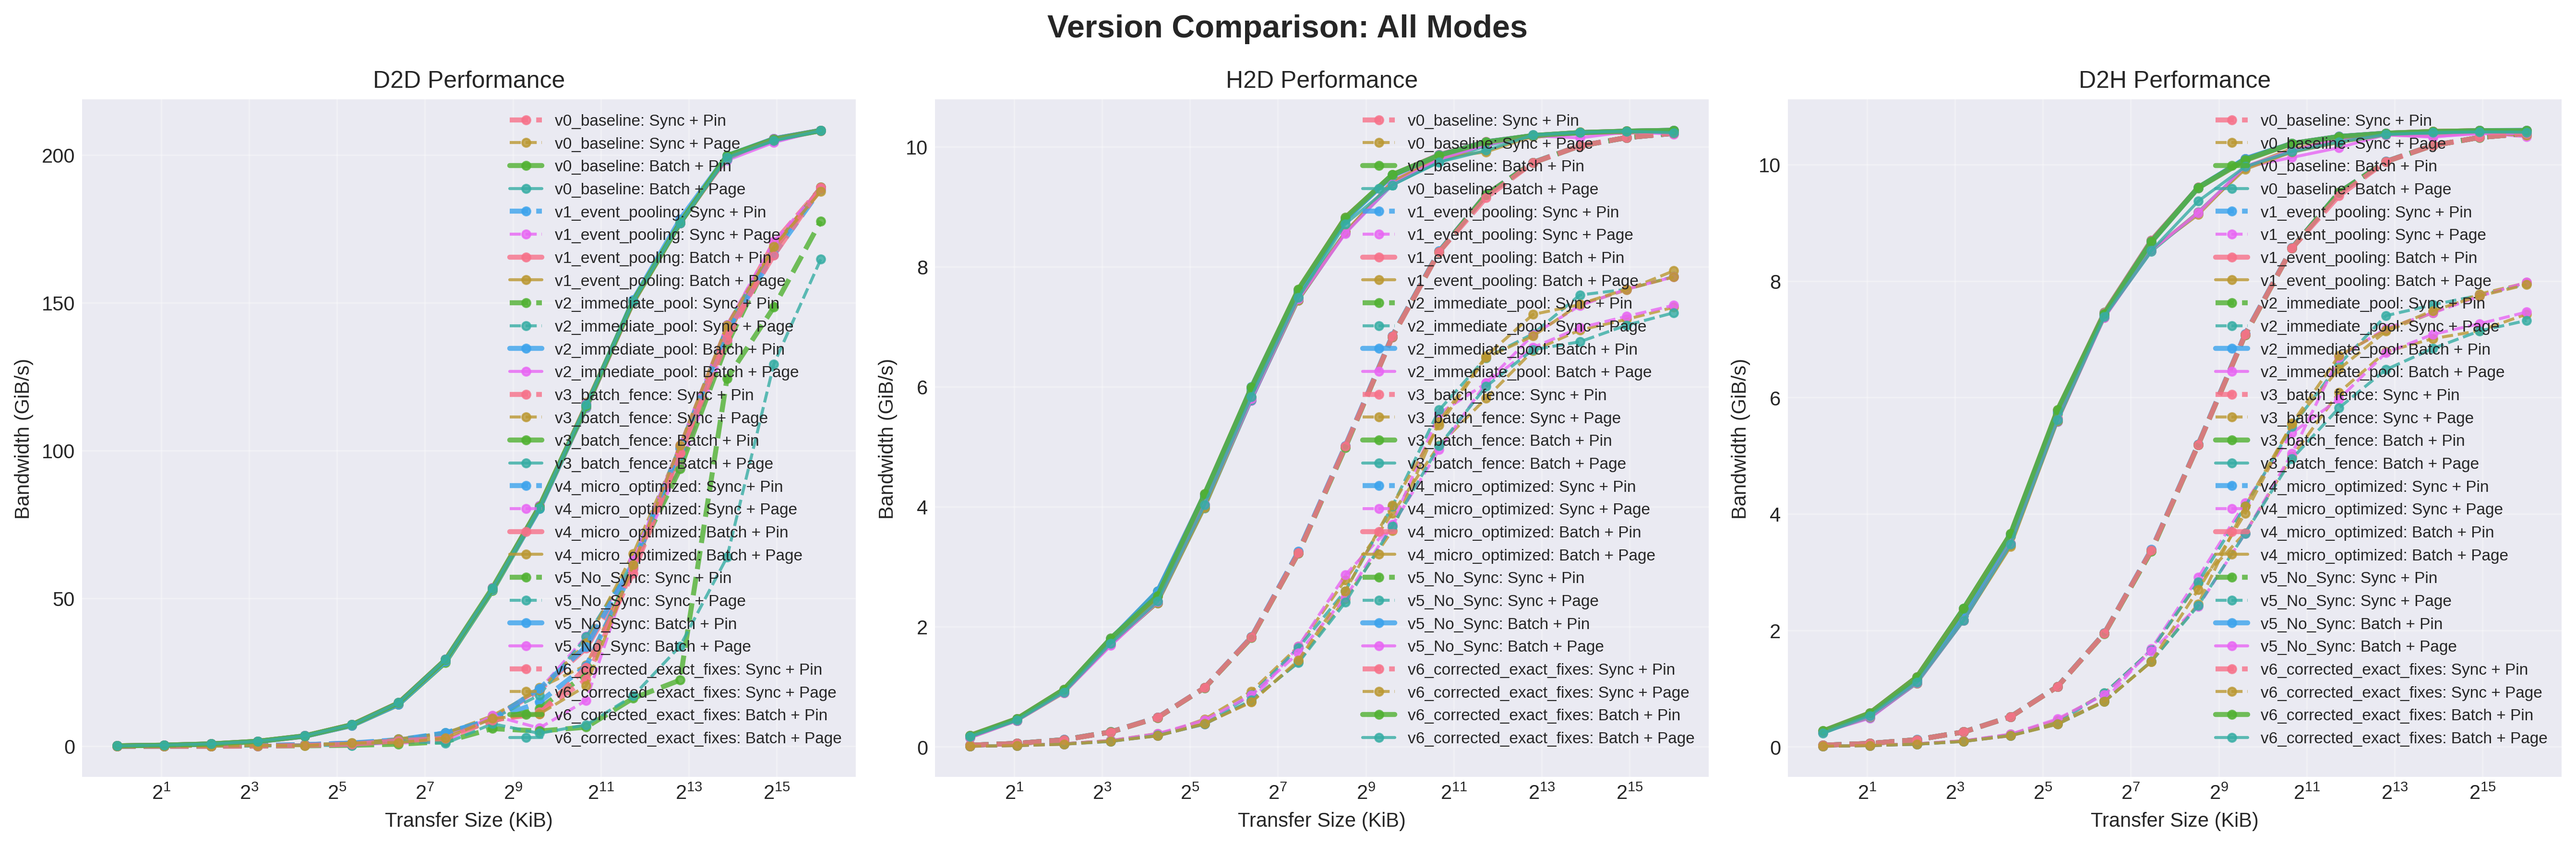
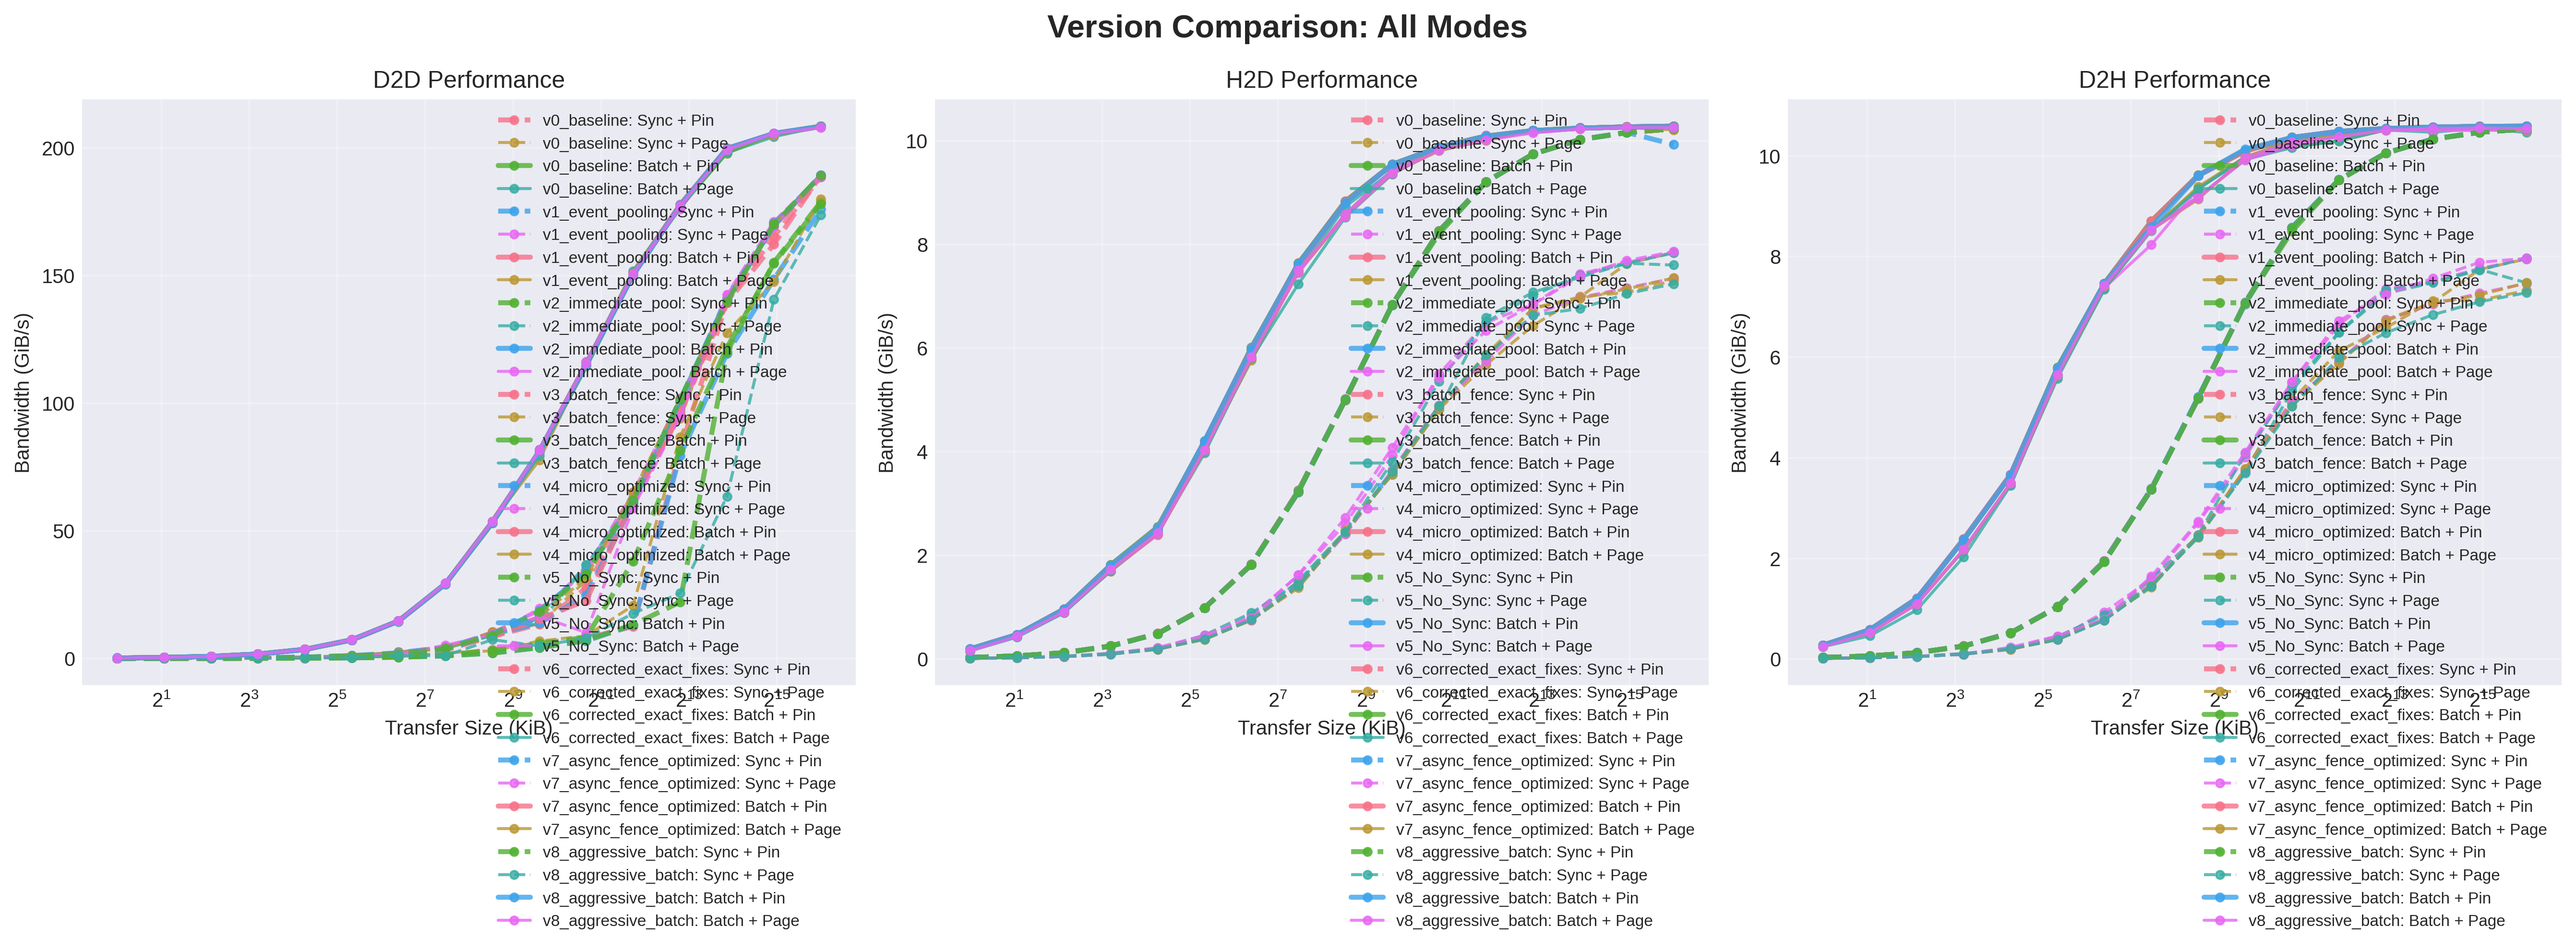
new graphs for current impl

diff --git a/bench/comparison_all/version_comparison.md b/bench/comparison_all/version_comparison.md
@@ -2,87 +2,111 @@
 
 | Version | Operation | Mode | Pinned | Peak (GiB/s) | Median (GiB/s) |
 | --- | --- | --- | --- | --- | --- |
-| v0_baseline | D2D | Sync | Yes | 188.88 | 6.38 |
-| v0_baseline | D2D | Sync | No | 188.89 | 6.69 |
-| v0_baseline | D2D | Batch | Yes | 208.36 | 41.48 |
-| v0_baseline | D2D | Batch | No | 208.31 | 41.48 |
+| v0_baseline | D2D | Sync | Yes | 188.64 | 2.30 |
+| v0_baseline | D2D | Sync | No | 188.51 | 7.18 |
+| v0_baseline | D2D | Batch | Yes | 208.33 | 41.48 |
+| v0_baseline | D2D | Batch | No | 208.33 | 41.50 |
 | v0_baseline | H2D | Sync | Yes | 10.22 | 4.13 |
-| v0_baseline | H2D | Sync | No | 7.33 | 2.23 |
-| v0_baseline | H2D | Batch | Yes | 10.27 | 8.22 |
-| v0_baseline | H2D | Batch | No | 10.25 | 8.04 |
+| v0_baseline | H2D | Sync | No | 7.84 | 1.91 |
+| v0_baseline | H2D | Batch | Yes | 10.28 | 8.23 |
+| v0_baseline | H2D | Batch | No | 10.26 | 8.02 |
 | v0_baseline | D2H | Sync | Yes | 10.53 | 4.29 |
-| v0_baseline | D2H | Sync | No | 7.43 | 2.24 |
+| v0_baseline | D2H | Sync | No | 7.95 | 1.94 |
 | v0_baseline | D2H | Batch | Yes | 10.58 | 9.15 |
-| v0_baseline | D2H | Batch | No | 10.55 | 8.85 |
-| v1_event_pooling | D2D | Sync | Yes | 188.87 | 6.72 |
-| v1_event_pooling | D2D | Sync | No | 188.66 | 6.77 |
-| v1_event_pooling | D2D | Batch | Yes | 208.41 | 40.87 |
-| v1_event_pooling | D2D | Batch | No | 208.25 | 41.50 |
-| v1_event_pooling | H2D | Sync | Yes | 10.22 | 4.12 |
-| v1_event_pooling | H2D | Sync | No | 7.36 | 2.27 |
-| v1_event_pooling | H2D | Batch | Yes | 10.27 | 8.20 |
-| v1_event_pooling | H2D | Batch | No | 10.27 | 8.02 |
-| v1_event_pooling | D2H | Sync | Yes | 10.53 | 4.29 |
-| v1_event_pooling | D2H | Sync | No | 7.47 | 2.30 |
-| v1_event_pooling | D2H | Batch | Yes | 10.58 | 9.14 |
-| v1_event_pooling | D2H | Batch | No | 10.56 | 8.84 |
-| v2_immediate_pool | D2D | Sync | Yes | 188.94 | 6.15 |
-| v2_immediate_pool | D2D | Sync | No | 189.21 | 6.96 |
-| v2_immediate_pool | D2D | Batch | Yes | 208.32 | 41.19 |
-| v2_immediate_pool | D2D | Batch | No | 208.34 | 41.43 |
-| v2_immediate_pool | H2D | Sync | Yes | 10.22 | 4.12 |
-| v2_immediate_pool | H2D | Sync | No | 7.84 | 2.12 |
+| v0_baseline | D2H | Batch | No | 10.55 | 8.86 |
+| v1_event_pooling | D2D | Sync | Yes | 175.85 | 1.53 |
+| v1_event_pooling | D2D | Sync | No | 189.18 | 6.91 |
+| v1_event_pooling | D2D | Batch | Yes | 208.29 | 41.40 |
+| v1_event_pooling | D2D | Batch | No | 208.32 | 41.53 |
+| v1_event_pooling | H2D | Sync | Yes | 10.22 | 4.13 |
+| v1_event_pooling | H2D | Sync | No | 7.84 | 2.11 |
+| v1_event_pooling | H2D | Batch | Yes | 10.28 | 8.23 |
+| v1_event_pooling | H2D | Batch | No | 10.25 | 8.01 |
+| v1_event_pooling | D2H | Sync | Yes | 10.53 | 4.30 |
+| v1_event_pooling | D2H | Sync | No | 7.95 | 2.15 |
+| v1_event_pooling | D2H | Batch | Yes | 10.58 | 9.16 |
+| v1_event_pooling | D2H | Batch | No | 10.55 | 8.96 |
+| v2_immediate_pool | D2D | Sync | Yes | 178.77 | 1.55 |
+| v2_immediate_pool | D2D | Sync | No | 188.83 | 6.45 |
+| v2_immediate_pool | D2D | Batch | Yes | 208.31 | 41.23 |
+| v2_immediate_pool | D2D | Batch | No | 208.31 | 41.41 |
+| v2_immediate_pool | H2D | Sync | Yes | 10.22 | 4.11 |
+| v2_immediate_pool | H2D | Sync | No | 7.83 | 1.98 |
 | v2_immediate_pool | H2D | Batch | Yes | 10.27 | 8.20 |
-| v2_immediate_pool | H2D | Batch | No | 10.25 | 8.00 |
+| v2_immediate_pool | H2D | Batch | No | 10.25 | 8.01 |
 | v2_immediate_pool | D2H | Sync | Yes | 10.53 | 4.27 |
-| v2_immediate_pool | D2H | Sync | No | 7.95 | 2.25 |
+| v2_immediate_pool | D2H | Sync | No | 7.97 | 2.02 |
 | v2_immediate_pool | D2H | Batch | Yes | 10.59 | 9.15 |
-| v2_immediate_pool | D2H | Batch | No | 10.55 | 8.85 |
-| v3_batch_fence | D2D | Sync | Yes | 188.77 | 6.23 |
-| v3_batch_fence | D2D | Sync | No | 189.20 | 7.37 |
-| v3_batch_fence | D2D | Batch | Yes | 208.36 | 40.46 |
-| v3_batch_fence | D2D | Batch | No | 208.38 | 41.46 |
-| v3_batch_fence | H2D | Sync | Yes | 10.22 | 4.12 |
-| v3_batch_fence | H2D | Sync | No | 7.93 | 1.94 |
-| v3_batch_fence | H2D | Batch | Yes | 10.27 | 8.18 |
-| v3_batch_fence | H2D | Batch | No | 10.25 | 8.00 |
-| v3_batch_fence | D2H | Sync | Yes | 10.53 | 4.28 |
-| v3_batch_fence | D2H | Sync | No | 7.97 | 1.96 |
-| v3_batch_fence | D2H | Batch | Yes | 10.58 | 9.13 |
-| v3_batch_fence | D2H | Batch | No | 10.55 | 8.84 |
-| v4_micro_optimized | D2D | Sync | Yes | 188.46 | 6.83 |
-| v4_micro_optimized | D2D | Sync | No | 188.76 | 3.87 |
-| v4_micro_optimized | D2D | Batch | Yes | 208.30 | 41.22 |
-| v4_micro_optimized | D2D | Batch | No | 208.30 | 41.51 |
-| v4_micro_optimized | H2D | Sync | Yes | 10.22 | 4.14 |
-| v4_micro_optimized | H2D | Sync | No | 7.83 | 2.03 |
+| v2_immediate_pool | D2H | Batch | No | 10.54 | 8.79 |
+| v3_batch_fence | D2D | Sync | Yes | 188.89 | 5.98 |
+| v3_batch_fence | D2D | Sync | No | 179.91 | 2.60 |
+| v3_batch_fence | D2D | Batch | Yes | 208.31 | 41.27 |
+| v3_batch_fence | D2D | Batch | No | 208.36 | 41.55 |
+| v3_batch_fence | H2D | Sync | Yes | 10.22 | 4.11 |
+| v3_batch_fence | H2D | Sync | No | 7.30 | 1.91 |
+| v3_batch_fence | H2D | Batch | Yes | 10.28 | 8.22 |
+| v3_batch_fence | H2D | Batch | No | 10.24 | 8.10 |
+| v3_batch_fence | D2H | Sync | Yes | 10.53 | 4.27 |
+| v3_batch_fence | D2H | Sync | No | 7.32 | 1.95 |
+| v3_batch_fence | D2H | Batch | Yes | 10.59 | 9.15 |
+| v3_batch_fence | D2H | Batch | No | 10.55 | 8.94 |
+| v4_micro_optimized | D2D | Sync | Yes | 189.02 | 6.31 |
+| v4_micro_optimized | D2D | Sync | No | 188.92 | 7.34 |
+| v4_micro_optimized | D2D | Batch | Yes | 208.34 | 41.20 |
+| v4_micro_optimized | D2D | Batch | No | 208.40 | 41.53 |
+| v4_micro_optimized | H2D | Sync | Yes | 10.22 | 4.11 |
+| v4_micro_optimized | H2D | Sync | No | 7.34 | 1.93 |
 | v4_micro_optimized | H2D | Batch | Yes | 10.27 | 8.22 |
-| v4_micro_optimized | H2D | Batch | No | 10.26 | 8.01 |
-| v4_micro_optimized | D2H | Sync | Yes | 10.53 | 4.29 |
-| v4_micro_optimized | D2H | Sync | No | 7.98 | 2.03 |
-| v4_micro_optimized | D2H | Batch | Yes | 10.58 | 9.15 |
-| v4_micro_optimized | D2H | Batch | No | 10.55 | 8.85 |
-| v5_No_Sync | D2D | Sync | Yes | 177.70 | 3.36 |
-| v5_No_Sync | D2D | Sync | No | 164.76 | 3.09 |
-| v5_No_Sync | D2D | Batch | Yes | 208.36 | 40.82 |
-| v5_No_Sync | D2D | Batch | No | 208.40 | 41.52 |
-| v5_No_Sync | H2D | Sync | Yes | 10.23 | 4.11 |
-| v5_No_Sync | H2D | Sync | No | 7.23 | 1.91 |
-| v5_No_Sync | H2D | Batch | Yes | 10.27 | 8.19 |
-| v5_No_Sync | H2D | Batch | No | 10.25 | 8.01 |
+| v4_micro_optimized | H2D | Batch | No | 10.25 | 8.00 |
+| v4_micro_optimized | D2H | Sync | Yes | 10.53 | 4.28 |
+| v4_micro_optimized | D2H | Sync | No | 7.46 | 1.98 |
+| v4_micro_optimized | D2H | Batch | Yes | 10.59 | 9.15 |
+| v4_micro_optimized | D2H | Batch | No | 10.55 | 8.94 |
+| v5_No_Sync | D2D | Sync | Yes | 178.03 | 2.24 |
+| v5_No_Sync | D2D | Sync | No | 188.77 | 6.62 |
+| v5_No_Sync | D2D | Batch | Yes | 208.38 | 41.20 |
+| v5_No_Sync | D2D | Batch | No | 208.47 | 41.53 |
+| v5_No_Sync | H2D | Sync | Yes | 10.22 | 4.11 |
+| v5_No_Sync | H2D | Sync | No | 7.63 | 1.96 |
+| v5_No_Sync | H2D | Batch | Yes | 10.27 | 8.21 |
+| v5_No_Sync | H2D | Batch | No | 10.25 | 8.02 |
 | v5_No_Sync | D2H | Sync | Yes | 10.53 | 4.28 |
-| v5_No_Sync | D2H | Sync | No | 7.32 | 1.95 |
-| v5_No_Sync | D2H | Batch | Yes | 10.59 | 9.14 |
-| v5_No_Sync | D2H | Batch | No | 10.54 | 8.85 |
-| v6_corrected_exact_fixes | D2D | Sync | Yes | 189.03 | 5.72 |
-| v6_corrected_exact_fixes | D2D | Sync | No | 187.72 | 6.07 |
-| v6_corrected_exact_fixes | D2D | Batch | Yes | 208.29 | 41.24 |
-| v6_corrected_exact_fixes | D2D | Batch | No | 208.30 | 41.44 |
-| v6_corrected_exact_fixes | H2D | Sync | Yes | 10.22 | 4.12 |
-| v6_corrected_exact_fixes | H2D | Sync | No | 7.83 | 2.02 |
+| v5_No_Sync | D2H | Sync | No | 7.74 | 1.96 |
+| v5_No_Sync | D2H | Batch | Yes | 10.59 | 9.15 |
+| v5_No_Sync | D2H | Batch | No | 10.51 | 8.86 |
+| v6_corrected_exact_fixes | D2D | Sync | Yes | 189.14 | 6.38 |
+| v6_corrected_exact_fixes | D2D | Sync | No | 188.69 | 7.13 |
+| v6_corrected_exact_fixes | D2D | Batch | Yes | 208.42 | 41.15 |
+| v6_corrected_exact_fixes | D2D | Batch | No | 208.28 | 41.15 |
+| v6_corrected_exact_fixes | H2D | Sync | Yes | 10.22 | 4.11 |
+| v6_corrected_exact_fixes | H2D | Sync | No | 7.35 | 1.94 |
 | v6_corrected_exact_fixes | H2D | Batch | Yes | 10.27 | 8.22 |
-| v6_corrected_exact_fixes | H2D | Batch | No | 10.26 | 8.10 |
-| v6_corrected_exact_fixes | D2H | Sync | Yes | 10.53 | 4.28 |
-| v6_corrected_exact_fixes | D2H | Sync | No | 7.94 | 2.08 |
-| v6_corrected_exact_fixes | D2H | Batch | Yes | 10.58 | 9.14 |
-| v6_corrected_exact_fixes | D2H | Batch | No | 10.56 | 8.95 |
+| v6_corrected_exact_fixes | H2D | Batch | No | 10.26 | 7.88 |
+| v6_corrected_exact_fixes | D2H | Sync | Yes | 10.53 | 4.27 |
+| v6_corrected_exact_fixes | D2H | Sync | No | 7.48 | 1.95 |
+| v6_corrected_exact_fixes | D2H | Batch | Yes | 10.59 | 9.15 |
+| v6_corrected_exact_fixes | D2H | Batch | No | 10.56 | 8.92 |
+| v7_async_fence_optimized | D2D | Sync | Yes | 189.19 | 6.92 |
+| v7_async_fence_optimized | D2D | Sync | No | 188.61 | 7.27 |
+| v7_async_fence_optimized | D2D | Batch | Yes | 208.36 | 41.33 |
+| v7_async_fence_optimized | D2D | Batch | No | 208.29 | 41.47 |
+| v7_async_fence_optimized | H2D | Sync | Yes | 10.15 | 4.11 |
+| v7_async_fence_optimized | H2D | Sync | No | 7.86 | 2.17 |
+| v7_async_fence_optimized | H2D | Batch | Yes | 10.27 | 8.20 |
+| v7_async_fence_optimized | H2D | Batch | No | 10.26 | 8.01 |
+| v7_async_fence_optimized | D2H | Sync | Yes | 10.53 | 4.28 |
+| v7_async_fence_optimized | D2H | Sync | No | 7.96 | 2.19 |
+| v7_async_fence_optimized | D2H | Batch | Yes | 10.59 | 9.15 |
+| v7_async_fence_optimized | D2H | Batch | No | 10.55 | 8.83 |
+| v8_aggressive_batch | D2D | Sync | Yes | 189.09 | 6.51 |
+| v8_aggressive_batch | D2D | Sync | No | 173.59 | 2.97 |
+| v8_aggressive_batch | D2D | Batch | Yes | 208.32 | 41.26 |
+| v8_aggressive_batch | D2D | Batch | No | 207.85 | 41.52 |
+| v8_aggressive_batch | H2D | Sync | Yes | 10.22 | 4.12 |
+| v8_aggressive_batch | H2D | Sync | No | 7.23 | 1.93 |
+| v8_aggressive_batch | H2D | Batch | Yes | 10.27 | 8.21 |
+| v8_aggressive_batch | H2D | Batch | No | 10.25 | 8.02 |
+| v8_aggressive_batch | D2H | Sync | Yes | 10.53 | 4.27 |
+| v8_aggressive_batch | D2H | Sync | No | 7.28 | 1.94 |
+| v8_aggressive_batch | D2H | Batch | Yes | 10.59 | 9.09 |
+| v8_aggressive_batch | D2H | Batch | No | 10.55 | 8.84 |
